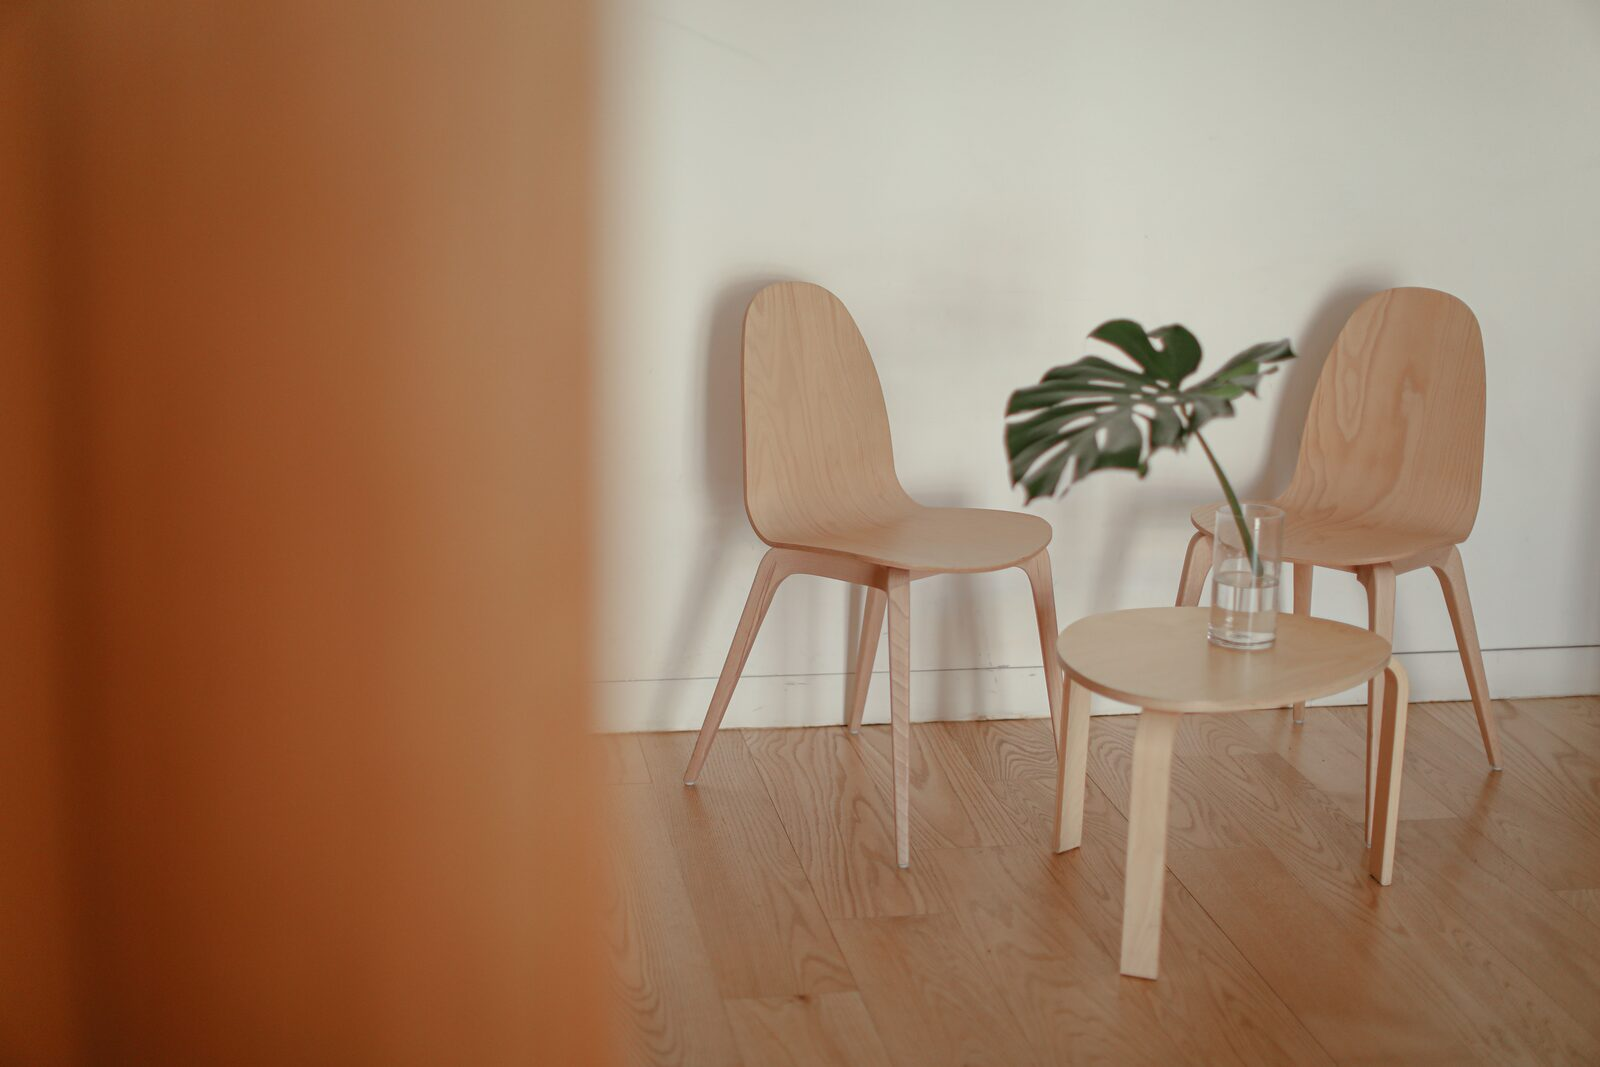
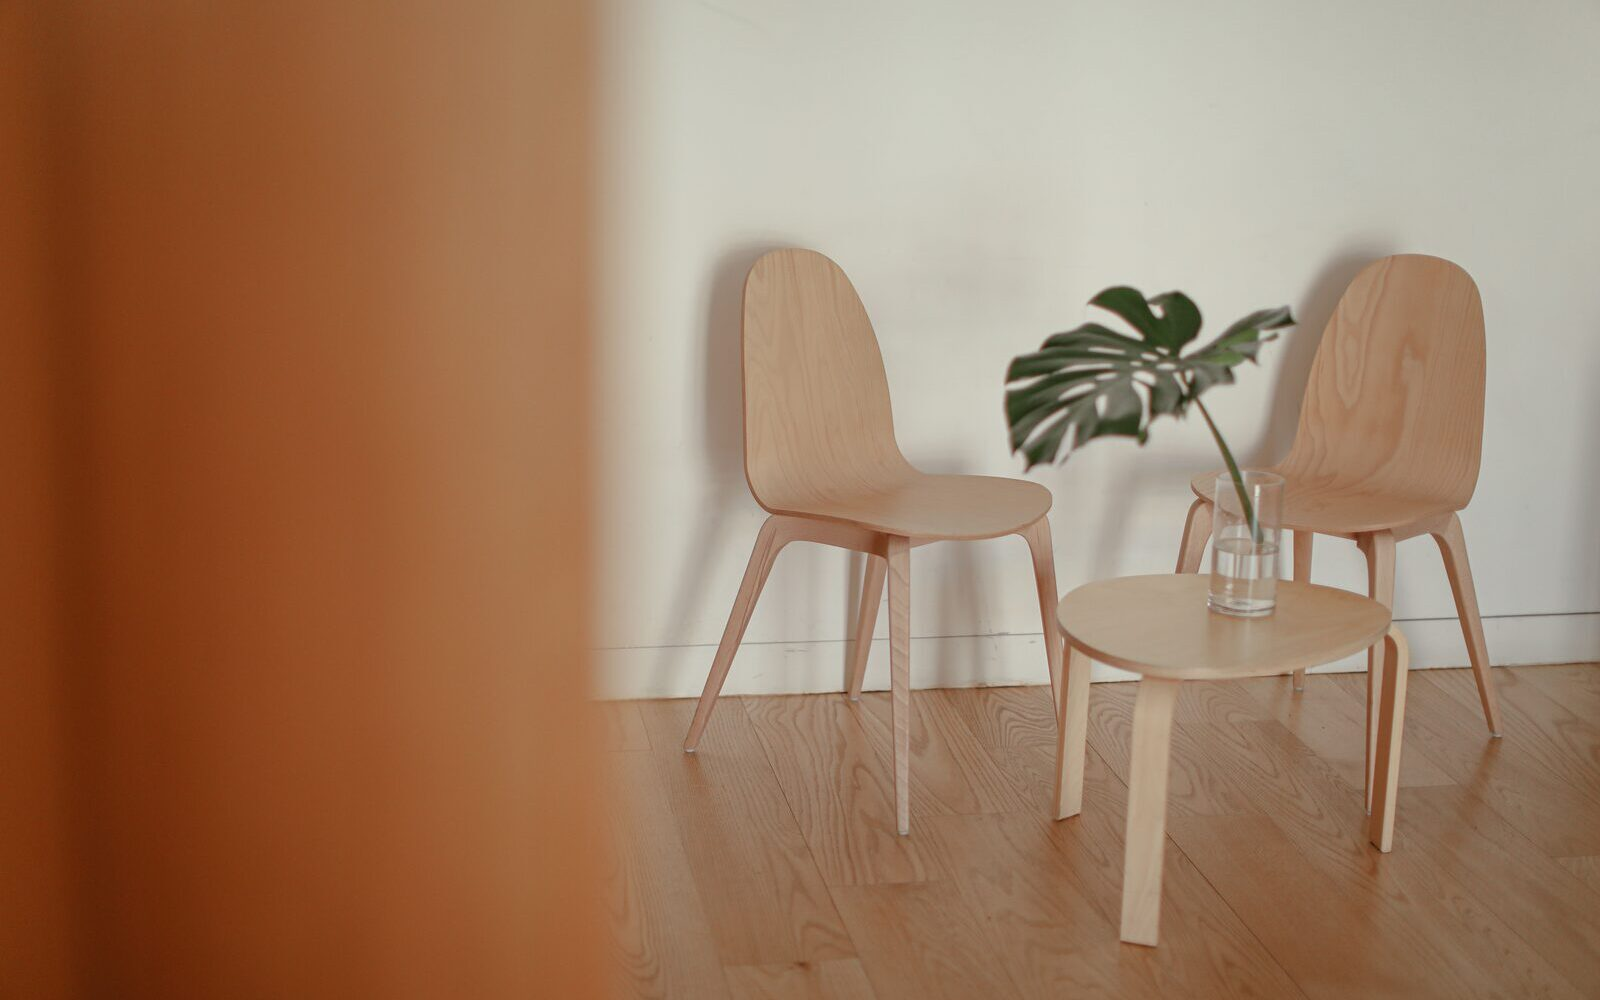
fix: correct tags on post-quiet-self and post-japan-simplicity
post-quiet-self: replaced invented tags (self-awareness, solitude) with
controlled taxonomy terms (soft living, journaling); kept nervous system.
post-japan-simplicity: added biophilic design for 3-tag sweet spot.
All tags now from TAXONOMY.md controlled list.

diff --git a/post-quiet-self.html b/post-quiet-self.html
@@ -444,9 +444,9 @@
   <span class="post-tags-section__label">Tagged in</span>
   <div class="tags">
     <a href="mind.html" class="tag tag--category">Mind</a>
-    <a href="mind.html" class="tag">self-awareness</a>
-    <a href="mind.html" class="tag">solitude</a>
     <a href="mind.html" class="tag">nervous system</a>
+    <a href="mind.html" class="tag">soft living</a>
+    <a href="mind.html" class="tag">journaling</a>
   </div>
 </div>
 

diff --git a/post-japan-simplicity.html b/post-japan-simplicity.html
@@ -446,6 +446,7 @@
     <a href="living.html" class="tag tag--category">Living</a>
     <a href="living.html" class="tag">intentional living</a>
     <a href="living.html" class="tag">calm space</a>
+    <a href="living.html" class="tag">biophilic design</a>
   </div>
 </div>
 